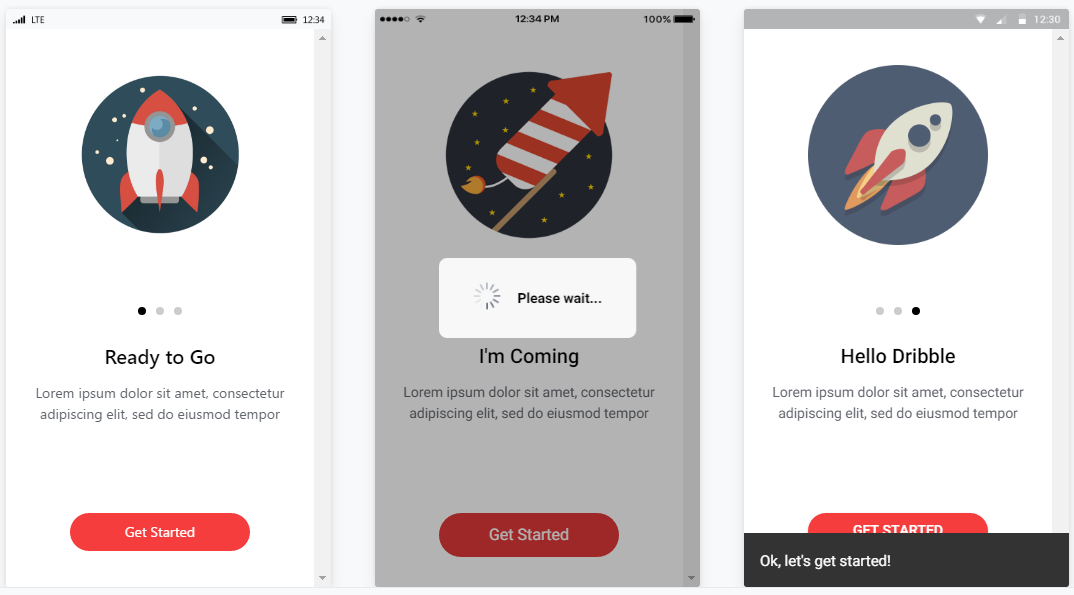
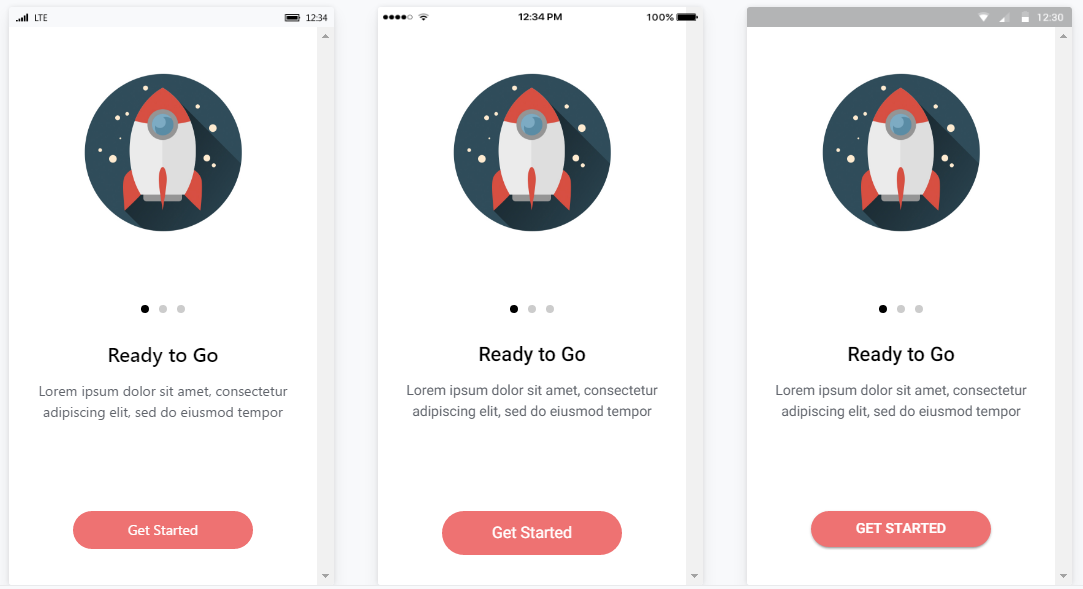
fixed button color

diff --git a/src/theme/variables.scss b/src/theme/variables.scss
@@ -26,7 +26,7 @@ $font-path: "../assets/fonts";
 $colors: (
   primary:    #387ef5,
   secondary:  #32db64,
-  danger:     #f53d3d,
+  danger:     #ee7272,
   light:      #f4f4f4,
   dark:       #222
 );
